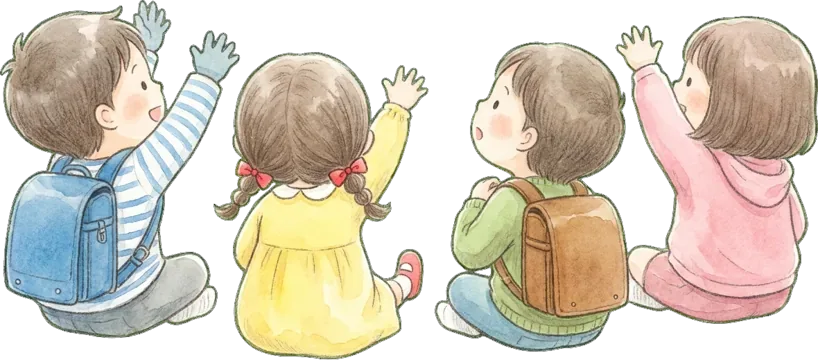
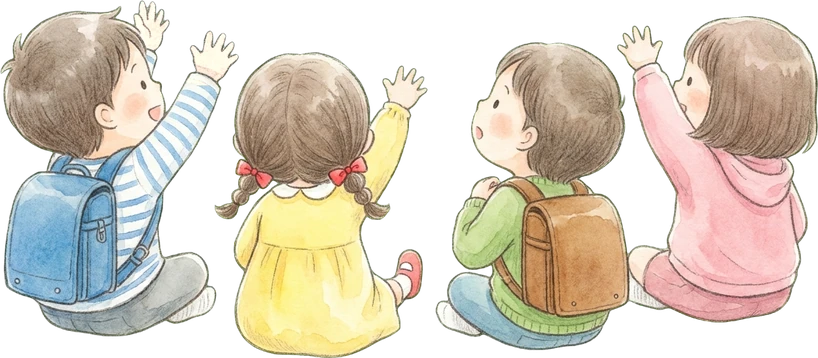
YCT tự học: sửa da cô giáo + tay các bạn bị xanh (tách nền lại từ ảnh gốc)

diff --git a/hoc/yct-tu-hoc/index.html b/hoc/yct-tu-hoc/index.html
@@ -1124,7 +1124,7 @@ const pic=e=>isNum(e)?`<span class="e num">${e}</span>`:`<span class="e">${im(e)
 /* trang chủ */
 function home(){
   document.getElementById("backBtn").hidden=true;
-  app.innerHTML=`<section class="card stage coGT" id="stage"><img class="moonpal floaty" src="${H["🌛"]||""}" alt="Ông Mặt Trăng"><div class="gtCo"><img class="gtGiao" src="img/lop/co-giao.webp" alt="Cô giáo SunMoon"><span class="song"><i></i><i></i><i></i></span><button class="sunbtn" aria-label="Nghe Cô Mặt Trời nói">${SUNSVG}</button></div>
+  app.innerHTML=`<section class="card stage coGT" id="stage"><img class="moonpal floaty" src="${H["🌛"]||""}" alt="Ông Mặt Trăng"><div class="gtCo"><img class="gtGiao" src="img/lop/co-giao.webp?v=${AV}" alt="Cô giáo SunMoon"><span class="song"><i></i><i></i><i></i></span><button class="sunbtn" aria-label="Nghe Cô Mặt Trời nói">${SUNSVG}</button></div>
     <div><div class="bubble"><span class="who">Cô Mặt Trời</span><span class="txt">Xin chào các bạn nhỏ! Bấm vào cô để nghe cô nói nhé!</span></div>
     <div class="stagebar" style="margin-top:10px"><button class="big" id="gtPlay">▶ Nghe Cô Mặt Trời</button></div></div></section>
   <section class="card batDau"><b class="bdTieu">👉 Bắt đầu ở đây</b>
@@ -1351,7 +1351,7 @@ async function chia(g){if(CK[g])return CK[g];const r=U&&U.k&&U.k[g];if(!r)throw 
 async function giaiMa(url,g){const r=await fetch(url);if(!r.ok)throw new Error("khong-tai");const b=new Uint8Array(await r.arrayBuffer());return crypto.subtle.decrypt({name:"AES-GCM",iv:b.slice(0,12)},await chia(g),b.slice(12))}
 async function moBai(n){ND[n]=JSON.parse(new TextDecoder().decode(await giaiMa(`enc/c${n}.bin`,nhomCD(n))))}
 const BLOB={},MIME={mp3:"audio/mpeg",mp4:"audio/mp4",pdf:"application/pdf"};
-const AV="202610061831";   // = số trong phien-ban.json — chạy bash nang-ban.sh mỗi lần sửa
+const AV="202610061836";   // = số trong phien-ban.json — chạy bash nang-ban.sh mỗi lần sửa
 /* 06/10 chị: học viên đang mở app cũng TỰ NHẬN BẢN MỚI — mở lại app / quay lại tab là kiểm, có bản mới thì tự tải lại (không mất tiến độ: tiến độ lưu trong máy) */
 function kiemBanMoi(){fetch("phien-ban.json?t="+Date.now(),{cache:"no-store"}).then(r=>r.json()).then(j=>{if(!j||!j.v||j.v===AV)return;
   const dang=document.querySelector(".ls,.pw,.mung,.cd,.vidCo")||/^#(cd|b)\d/.test(location.hash);if(dang){   /* 06/10: đang trong bài thì KHÔNG tự tải lại (trước đây làm bé "nhảy về trang phiên âm") — chỉ hiện nút */
@@ -1738,7 +1738,7 @@ function moVideo(au,cueUrl){if(document.querySelector(".vidCo"))return;
   const o=document.createElement("div");o.className="vidCo";o.innerHTML=`<div class="vcKhung"><button class="vcX" aria-label="Đóng">✕</button><div class="vcCanh">
       <div class="vcBang"><div class="vcHinh"></div><div class="vcChu"></div></div>
       <div class="vcSan"></div>
-      <img class="vcGiao" src="img/lop/co-giao.webp" alt=""><img class="vcBan2" src="img/lop/cac-ban.webp" alt="">
+      <img class="vcGiao" src="img/lop/co-giao.webp?v=${AV}" alt=""><img class="vcBan2" src="img/lop/cac-ban.webp?v=${AV}" alt="">
       <div class="vcCo">${lvNoi()}<span class="vcTen">Cô Mặt Trời</span></div></div>
     <div class="vcDk"><button class="vcPP" aria-label="Phát / dừng">⏸</button><input type="range" class="vcTua" min="0" max="1" step=".1" value="0" aria-label="Tua"><span class="vcTg">0:00</span></div></div>`;
   document.body.appendChild(o);document.body.style.overflow="hidden";
